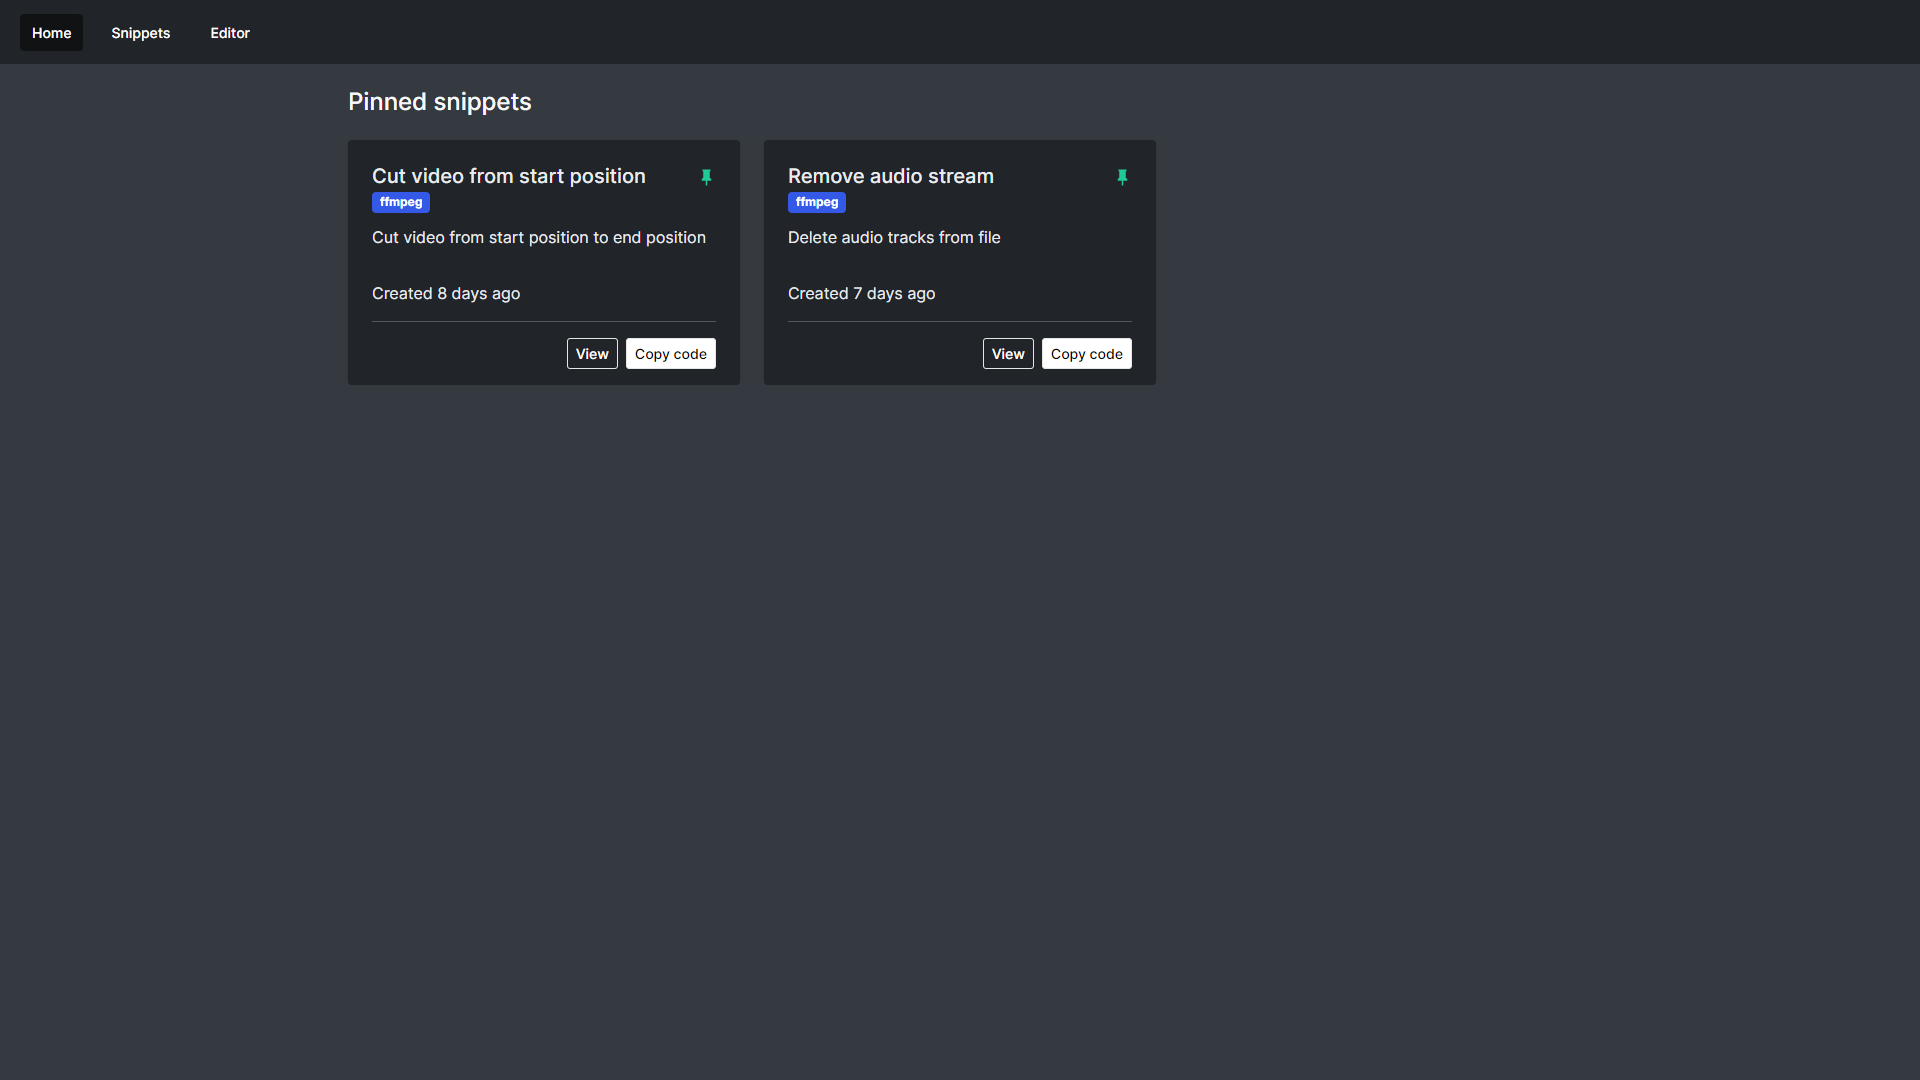
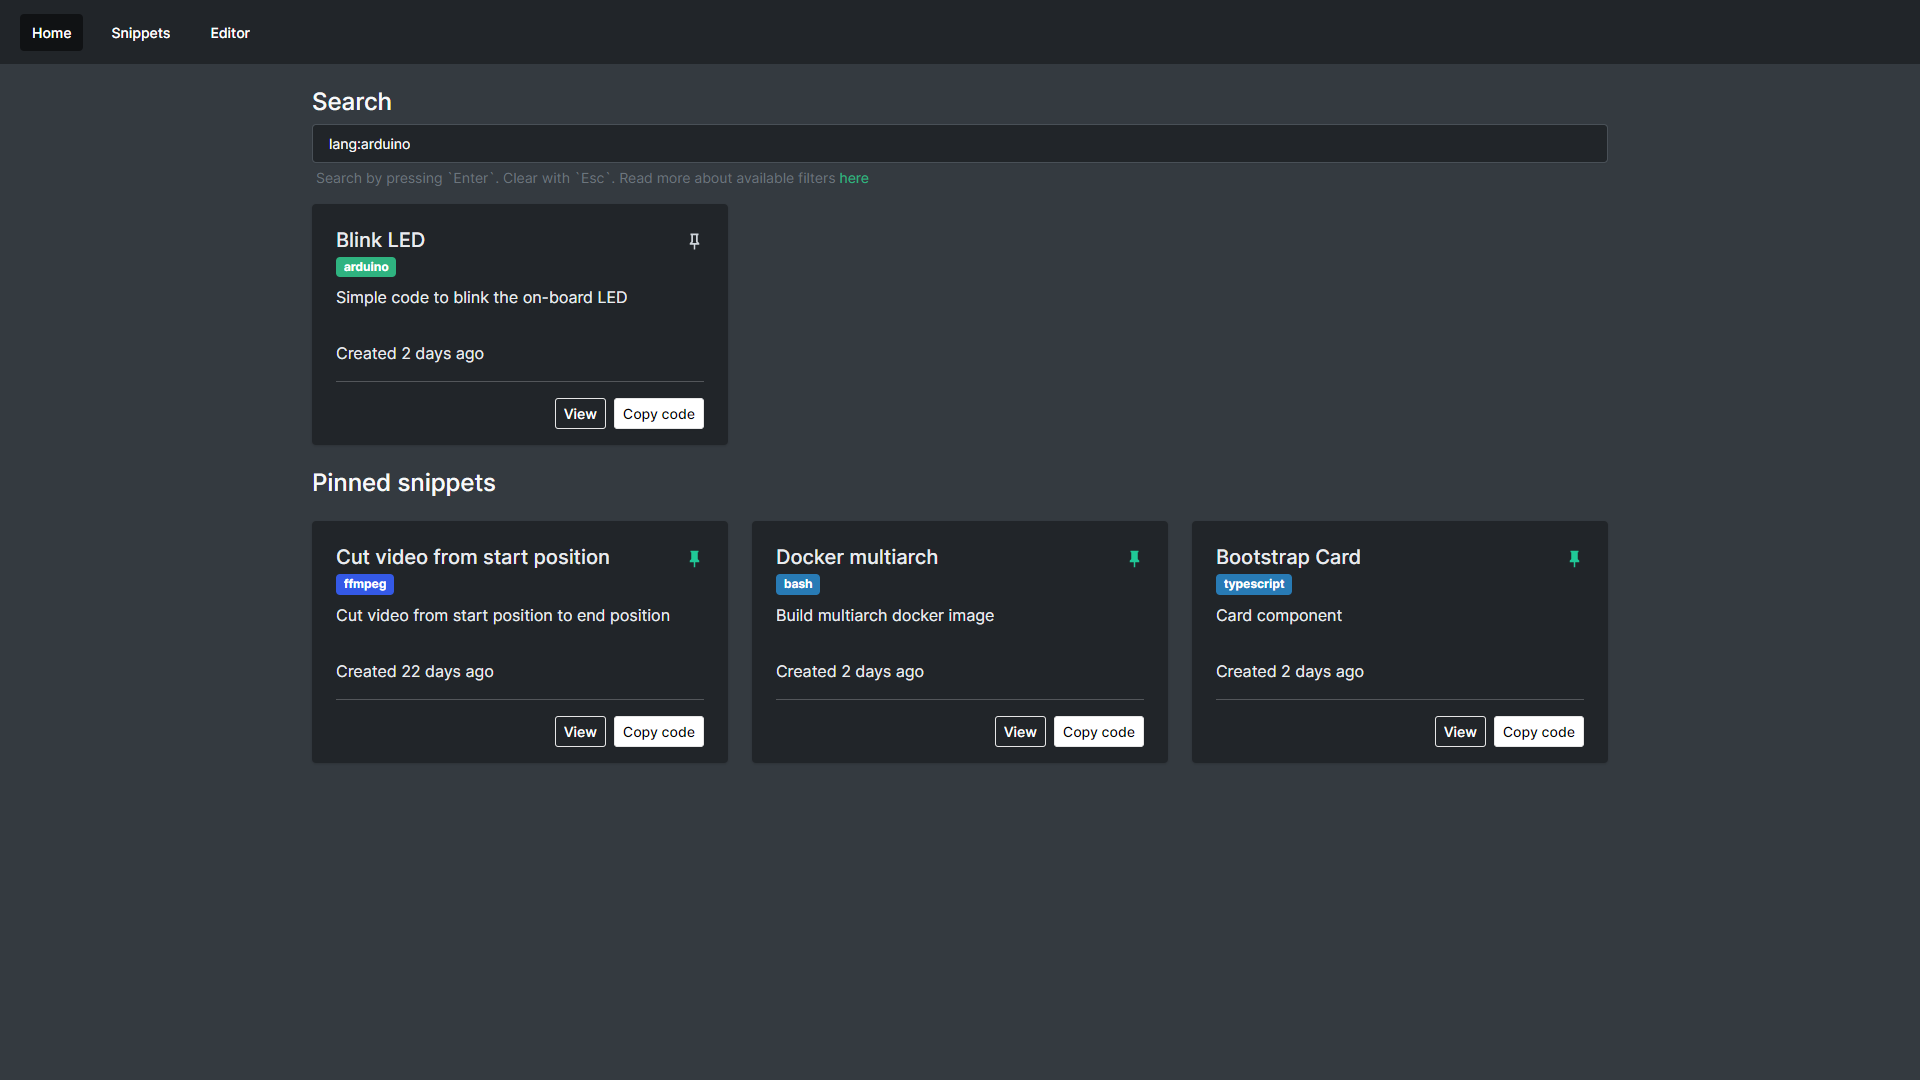
Added shortcut to clear search input. Updated README, CHANGELOG and Home screenshot. Added docker-compose

diff --git a/client/src/components/SearchBar.tsx b/client/src/components/SearchBar.tsx
@@ -15,6 +15,9 @@ export const SearchBar = (): JSX.Element => {
 
     if (e.key === 'Enter') {
       searchSnippets(query);
+    } else if (e.key === 'Escape') {
+      inputRef.current.value = '';
+      searchSnippets(searchParser(inputRef.current.value));
     }
   };
 
@@ -27,8 +30,8 @@ export const SearchBar = (): JSX.Element => {
         ref={inputRef}
         onKeyUp={e => inputHandler(e)}
       />
-      <div className='form-text text-gray'>
-        Submit search query by pressing `Enter`. Read more about available
+      <div className='form-text text-gray ms-1'>
+        Search by pressing `Enter`. Clear with `Esc`. Read more about available
         filters{' '}
         <a
           href='https://github.com/pawelmalak/snippet-box/wiki/Search-filters'

diff --git a/src/controllers/snippets.ts b/src/controllers/snippets.ts
@@ -121,8 +121,6 @@ export const getSnippet = asyncWrapper(
  */
 export const updateSnippet = asyncWrapper(
   async (req: Request, res: Response, next: NextFunction): Promise<void> => {
-    console.log(req.body);
-
     let snippet = await SnippetModel.findOne({
       where: { id: req.params.id }
     });

diff --git a/README.md b/README.md
@@ -64,12 +64,29 @@ docker buildx build \
 docker run -p 5000:5000 -v /path/to/data:/app/data snippet-box
 ```
 
+#### Docker Compose
+
+```yaml
+version: '3'
+services:
+  snippet-box:
+    image: pawelmalak/snippet-box:latest
+    container_name: snippet-box
+    volumes:
+      - /path/to/host/data:/app/data
+    ports:
+      - 5000:5000
+    restart: unless-stopped
+```
+
 ### Without Docker
 
 Follow instructions from wiki - [Installation without Docker](https://github.com/pawelmalak/snippet-box/wiki/Installation-without-Docker)
 
 ## Functionality
 
+- Search
+  - Search your snippets with built-in tags and language filters
 - Pinned snippets
   - Pin your favorite / important snippets to home screen for easy and quick access
 
@@ -92,3 +109,9 @@ Follow instructions from wiki - [Installation without Docker](https://github.com
   - Create and edit your snippets from simple and easy to use editor
 
 ![Editor screenshot](./.github/img/editor.png)
+
+## Usage
+
+### Search functionality
+
+Visit wiki for search functionality and available filters reference: [Search functionality](https://github.com/pawelmalak/snippet-box/wiki/Search-functionality)

diff --git a/CHANGELOG.md b/CHANGELOG.md
@@ -1,4 +1,4 @@
-### v1.4 (TBA)
+### v1.4 (2021-10-14)
 - Added search functionality ([#18](https://github.com/pawelmalak/snippet-box/issues/18))
 - Fixed date parsing bug ([#22](https://github.com/pawelmalak/snippet-box/issues/22))
 - Minor UI fixes
